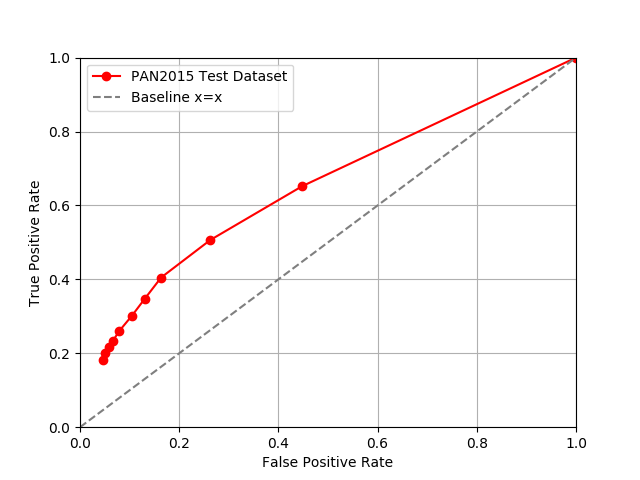
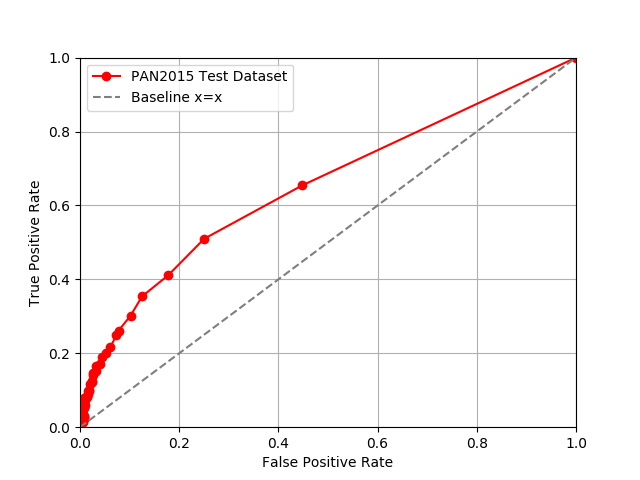
Add AUROC computation for the extended delta method

diff --git a/report/graph_generation/extended_delta_method_roc.py b/report/graph_generation/extended_delta_method_roc.py
@@ -5,12 +5,41 @@ import numpy as np
 
 # 13 1.
 tprs = np.array([
-    1.0, 0.652, 0.5064, 0.405, 0.3472, 0.3018, 0.26039999999999996, 0.2334,
-    0.2168, 0.2006, 0.18280000000000002])
+    1.0, 0.6542, 0.5097999999999999, 0.41100000000000003, 0.354, 0.3018,
+    0.2614, 0.2486, 0.2158, 0.20079999999999998, 0.18899999999999997, 0.1722,
+    0.1646, 0.153, 0.1474, 0.14, 0.125, 0.12240000000000001, 0.1176, 9.68e-2,
+    0.1, 9.699999999999999e-2, 9.08e-2, 8.32e-2, 8.24e-2, 7.84e-2,
+    7.400000000000001e-2, 7.96e-2, 7.339999999999999e-2, 7.18e-2, 6.02e-2,
+    5.5999999999999994e-2, 5.88e-2, 5.54e-2, 5.28e-2, 5.0199999999999995e-2,
+    4.7e-2, 4.82e-2, 4.8600000000000004e-2, 4.14e-2, 4.4199999999999996e-2,
+    4.38e-2, 3.8599999999999995e-2, 3.98e-2, 3.22e-2, 3.66e-2, 3.74e-2,
+    3.26e-2, 3.1e-2, 2.96e-2, 2.8399999999999998e-2, 2.48e-2, 2.5e-2, 2.5e-2,
+    2.5e-2, 2.16e-2, 2.06e-2, 2.2400000000000003e-2, 2.16e-2, 2.06e-2, 3.16e-2,
+    3.32e-2, 2.96e-2, 2.98e-2, 3.16e-2, 2.92e-2, 2.7999999999999997e-2,
+    2.94e-2, 2.7999999999999997e-2, 2.68e-2, 2.54e-2, 2.2400000000000003e-2,
+    2.58e-2, 2.3799999999999998e-2, 2.08e-2, 2.5e-2, 2.08e-2, 2.08e-2, 2.4e-2,
+    1.92e-2, 1.94e-2, 1.92e-2, 2.02e-2, 2.02e-2, 1.8600000000000002e-2,
+    1.8000000000000002e-2, 1.92e-2, 1.92e-2, 1.92e-2, 1.68e-2,
+    1.6399999999999998e-2, 1.3600000000000001e-2, 1.28e-2, 1.46e-2, 1.5e-2,
+    1.32e-2, 1.6200000000000003e-2, 1.52e-2, 1.34e-2, 1.06e-2, 1.52e-2, 0.0])
 fprs = np.array([
-    1.0, 0.44780000000000003, 0.2626, 0.1636, 0.1304, 0.1048,
-    7.919999999999999e-2, 6.62e-2, 5.7999999999999996e-2, 5.04e-2,
-    4.6799999999999994e-2])
+    1.0, 0.44799999999999995, 0.2504, 0.1778, 0.1252, 0.102,
+    7.780000000000001e-2, 7.32e-2, 6.1e-2, 5.26e-2, 4.4000000000000004e-2,
+    4.08e-2, 3.26e-2, 3.16e-2, 2.54e-2, 2.68e-2, 2.4399999999999998e-2,
+    2.32e-2, 1.96e-2, 1.84e-2, 1.78e-2, 1.52e-2, 1.5600000000000001e-2,
+    1.38e-2, 1.3600000000000001e-2, 9.8e-3, 8.6e-3, 7.4e-3,
+    9.399999999999999e-3, 7.2e-3, 1.08e-2, 7.6e-3, 6.6e-3, 7.6e-3, 7.2e-3,
+    6.8000000000000005e-3, 4.4e-3, 5.0e-3, 3.8e-3, 5.0e-3, 4.2e-3,
+    2.8000000000000004e-3, 2.4e-3, 3.8e-3, 2.8000000000000004e-3,
+    3.4000000000000002e-3, 1.8e-3, 2.4e-3, 2.6e-3, 3.2e-3,
+    2.8000000000000004e-3, 2.2e-3, 3.2e-3, 2.8000000000000004e-3, 2.4e-3,
+    1.6e-3, 2.6e-3, 1.6e-3, 3.2e-3, 1.4000000000000002e-3, 6.6e-3, 6.6e-3,
+    6.2e-3, 5.4e-3, 7.6e-3, 7.2e-3, 4.8e-3, 6.6e-3, 5.4e-3, 6.6e-3, 7.6e-3,
+    6.2e-3, 6.4e-3, 7.4e-3, 5.8e-3, 5.2e-3, 5.4e-3, 6.0e-3, 4.0e-3, 5.8e-3,
+    3.8e-3, 4.2e-3, 4.2e-3, 3.6e-3, 6.0e-3, 4.4e-3, 5.2e-3, 5.4e-3, 4.8e-3,
+    4.4e-3, 5.600000000000001e-3, 4.6e-3, 4.8e-3, 5.4e-3,
+    3.4000000000000002e-3, 3.0e-3, 3.6e-3, 3.4000000000000002e-3, 4.0e-3,
+    4.2e-3, 4.8e-3, 0.0])
 
 p = fprs.argsort()
 fprs = fprs[p]
@@ -25,3 +54,14 @@ plt.xlabel('False Positive Rate')
 plt.ylabel('True Positive Rate')
 plt.legend()
 plt.savefig('../pictures/extended_delta_method_roc.png')
+
+area = 0.0
+for x in range(0, tprs.shape[0] - 1):
+    x1 = fprs[x]
+    x2 = fprs[x + 1]
+    y1 = tprs[x]
+    y2 = tprs[x + 1]
+
+    area += y1 * (x2 - x1) + ((x2 - x1) * (y2 - y1) * (1 / 2))
+
+print('AUROC', area)

diff --git a/report/results.tex b/report/results.tex
@@ -146,7 +146,7 @@ data were the 20 most frequent 1-, 2-, and 3-special-char-grams for 2 opposing
 authors. The accuracy obtained on the PAN 2013 test datasets were 0.73213 and
 0.67173. The accuracy obtained on the PAN 2015 dataset were 0.62189. Since the
 2015 dataset depends on the \gls{AUROC} it is shown in Figure
-\ref{fig:extended_delta_method_roc}.
+\ref{fig:extended_delta_method_roc} and the area was 0.65188.
 
 \begin{figure}
     \centering
